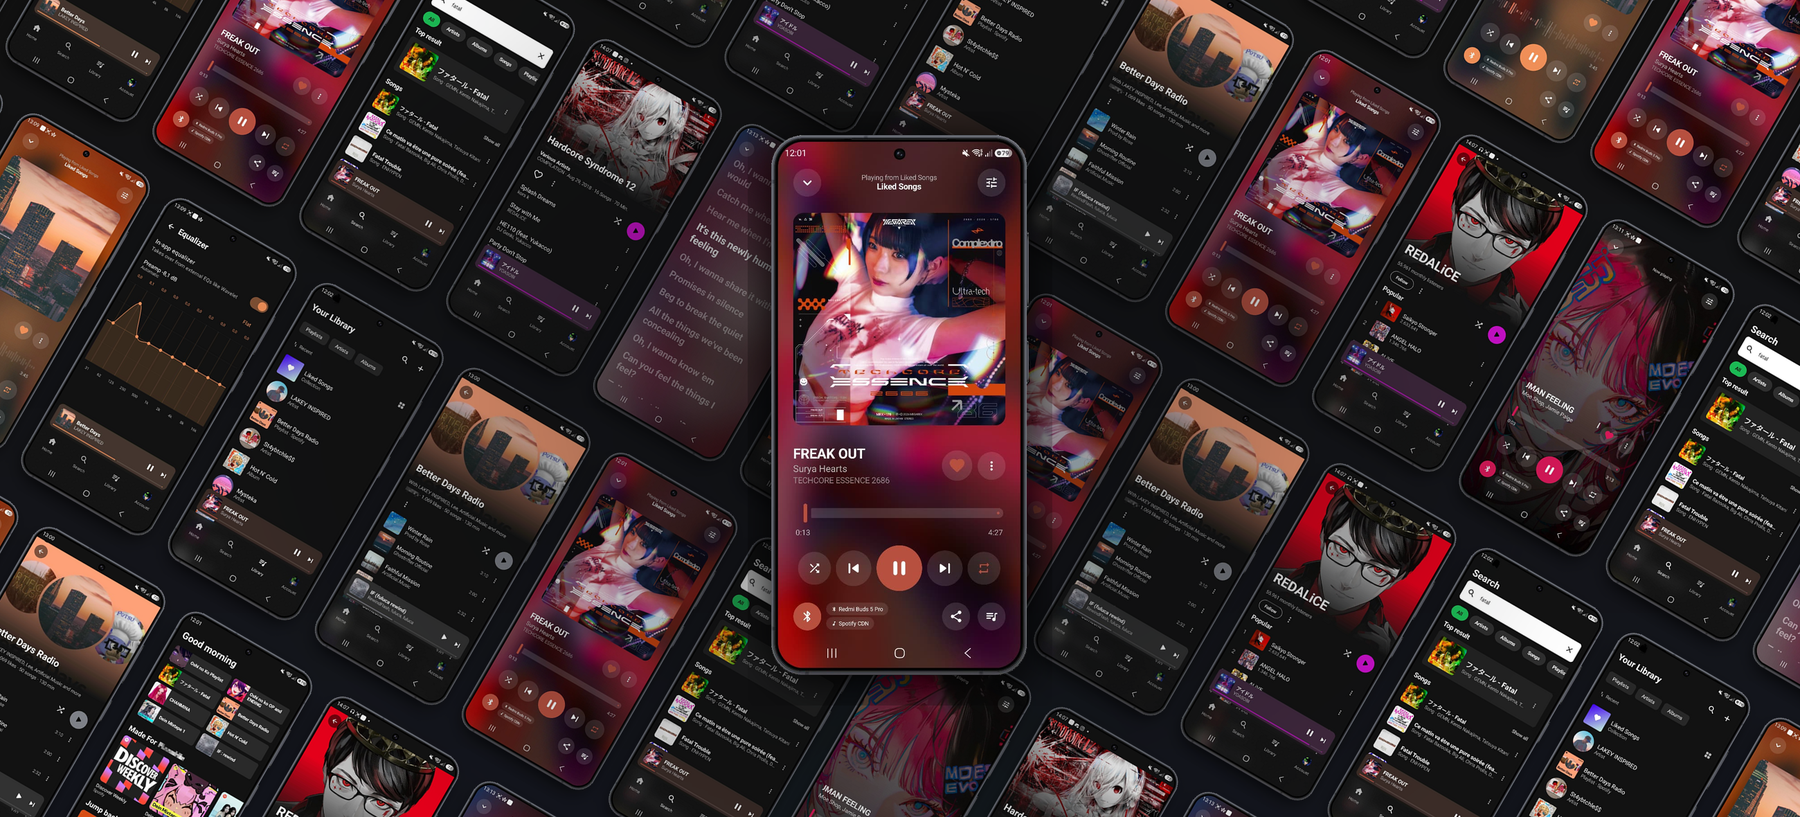
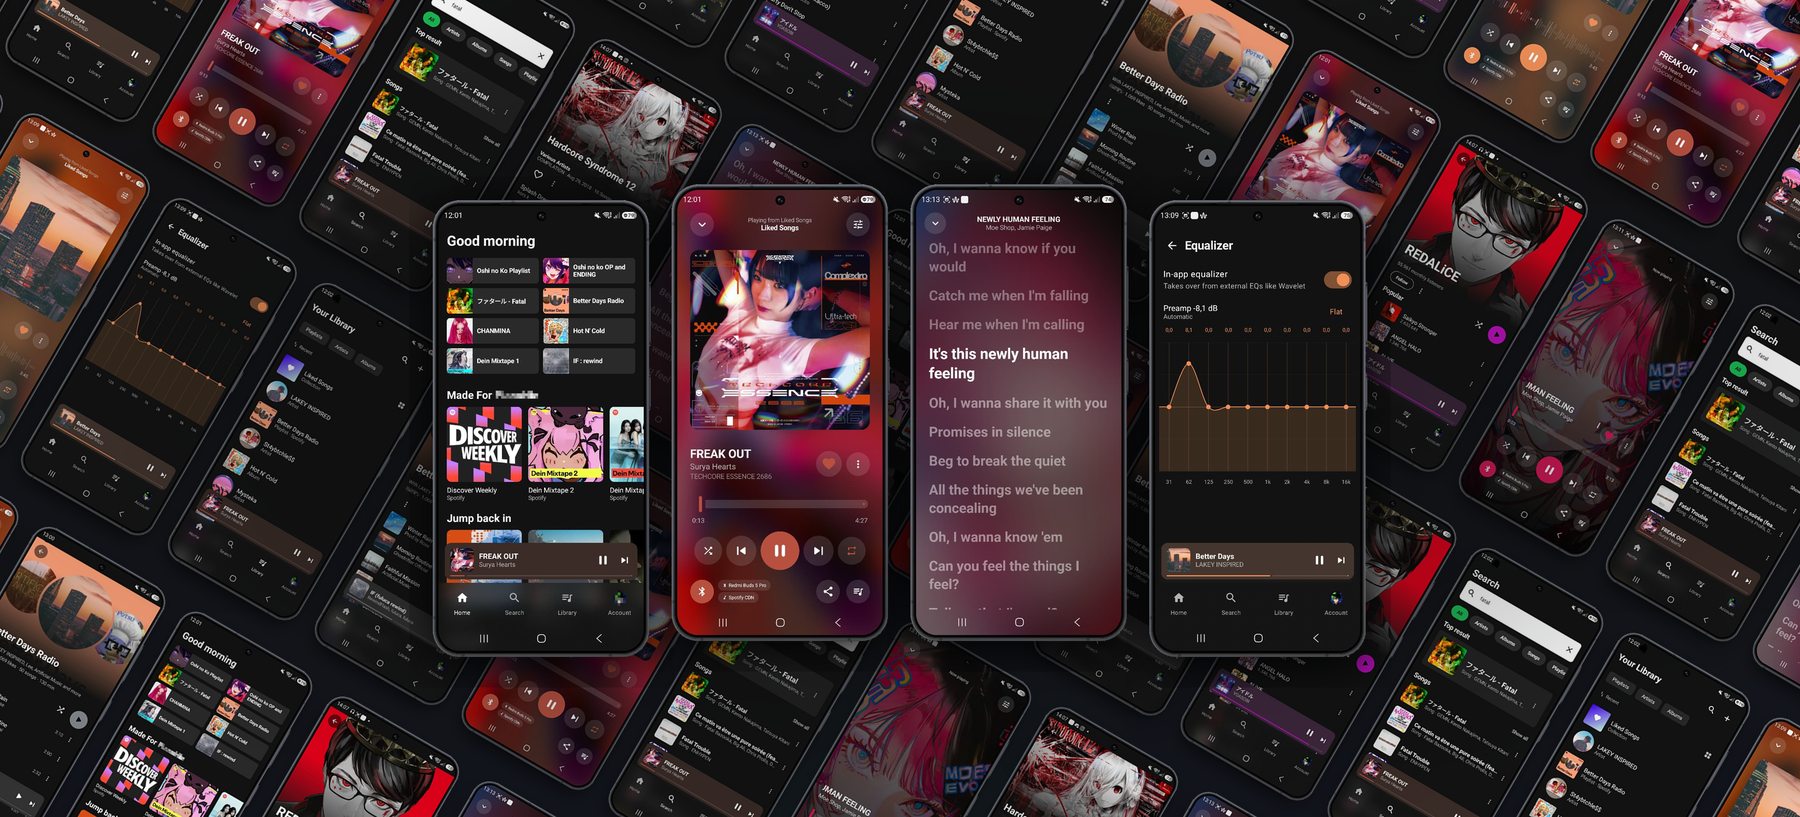
feat: show four core-feature screens in front of the field

diff --git a/scripts/generate_mockup.py b/scripts/generate_mockup.py
@@ -31,12 +31,20 @@ SCREENSHOTS = [
     'screenshot_album.PNG',
 ]
 
-# The one screen shown upright and full size.
-HERO = 'screenshot_player.PNG'
+# Shown upright and full size in front of the field: what the app actually does, in the order you
+# meet it. Browse, play, follow the words, shape the sound.
+FOREGROUND = [
+    'screenshot_home.PNG',
+    'screenshot_player.PNG',
+    'screenshot_lyrics.PNG',
+    'screenshot_equalizer.PNG',
+]
 
 CANVAS_W, CANVAS_H = 2600, 1180
 OUTPUT_W = 1800       # composed large, delivered smaller: sharper edges, a third of the file size
-HERO_H = 780          # height of the upright hero
+HERO_H = 660          # height of the upright foreground screens
+HERO_OVERLAP = 0.10   # how much neighbouring foreground screens overlap, as a fraction of width
+HERO_STAGGER = 34     # outer screens sit this many px lower than the inner pair
 TILE_H = 460          # height of each tilted screen in the field
 TILE_ANGLE = -30      # degrees; one angle for the whole field keeps it isometric
 COL_STEP = 1.12       # column pitch, as a multiple of a phone's width  (>1 leaves a gutter)
@@ -135,23 +143,34 @@ def build_field(seed):
 
 
 def dim_towards_centre(canvas):
-    """Fade the field down in the middle so the hero separates from it instead of competing."""
+    """Fade the field down behind the foreground row so it reads as backdrop, not competition.
+
+    A wide ellipse rather than a circle, because the foreground is a row of four.
+    """
     veil = Image.new('RGBA', canvas.size, (0, 0, 0, 0))
     draw = ImageDraw.Draw(veil)
     cx, cy = canvas.size[0] // 2, canvas.size[1] // 2
-    reach = int(canvas.size[0] * 0.40)
+    reach = int(canvas.size[0] * 0.60)
     for radius in range(reach, 0, -3):
-        alpha = int(140 * (1 - radius / reach))
-        draw.ellipse([cx - radius, cy - int(radius * 0.74), cx + radius, cy + int(radius * 0.74)],
+        alpha = int(150 * (1 - radius / reach))
+        draw.ellipse([cx - radius, cy - int(radius * 0.44), cx + radius, cy + int(radius * 0.44)],
                      fill=(10, 11, 13, alpha))
-    return Image.alpha_composite(canvas, veil.filter(ImageFilter.GaussianBlur(70)))
+    return Image.alpha_composite(canvas, veil.filter(ImageFilter.GaussianBlur(80)))
 
 
 def generate(seed=DEFAULT_SEED):
     canvas = dim_towards_centre(build_field(seed))
-    hero = add_shadow(load_screen(HERO, HERO_H), blur=34, opacity=170)
-    cx, cy = CANVAS_W // 2, CANVAS_H // 2
-    canvas.paste(hero, (cx - hero.size[0] // 2, cy - hero.size[1] // 2), hero)
+
+    phones = [add_shadow(load_screen(name, HERO_H), blur=34, opacity=170) for name in FOREGROUND]
+    overlap = int(phones[0].size[0] * HERO_OVERLAP)
+    total = sum(p.size[0] for p in phones) - overlap * (len(phones) - 1)
+    x = (CANVAS_W - total) // 2
+    mid = (len(phones) - 1) / 2
+    for i, phone in enumerate(phones):
+        # Outer screens ride lower, so the row arcs slightly instead of sitting on one line.
+        drop = int(HERO_STAGGER * abs(i - mid) / mid) if mid else 0
+        canvas.paste(phone, (x, (CANVAS_H - phone.size[1]) // 2 + drop), phone)
+        x += phone.size[0] - overlap
 
     height = round(CANVAS_H * OUTPUT_W / CANVAS_W)
     canvas = canvas.convert('RGB').resize((OUTPUT_W, height), Image.LANCZOS)
